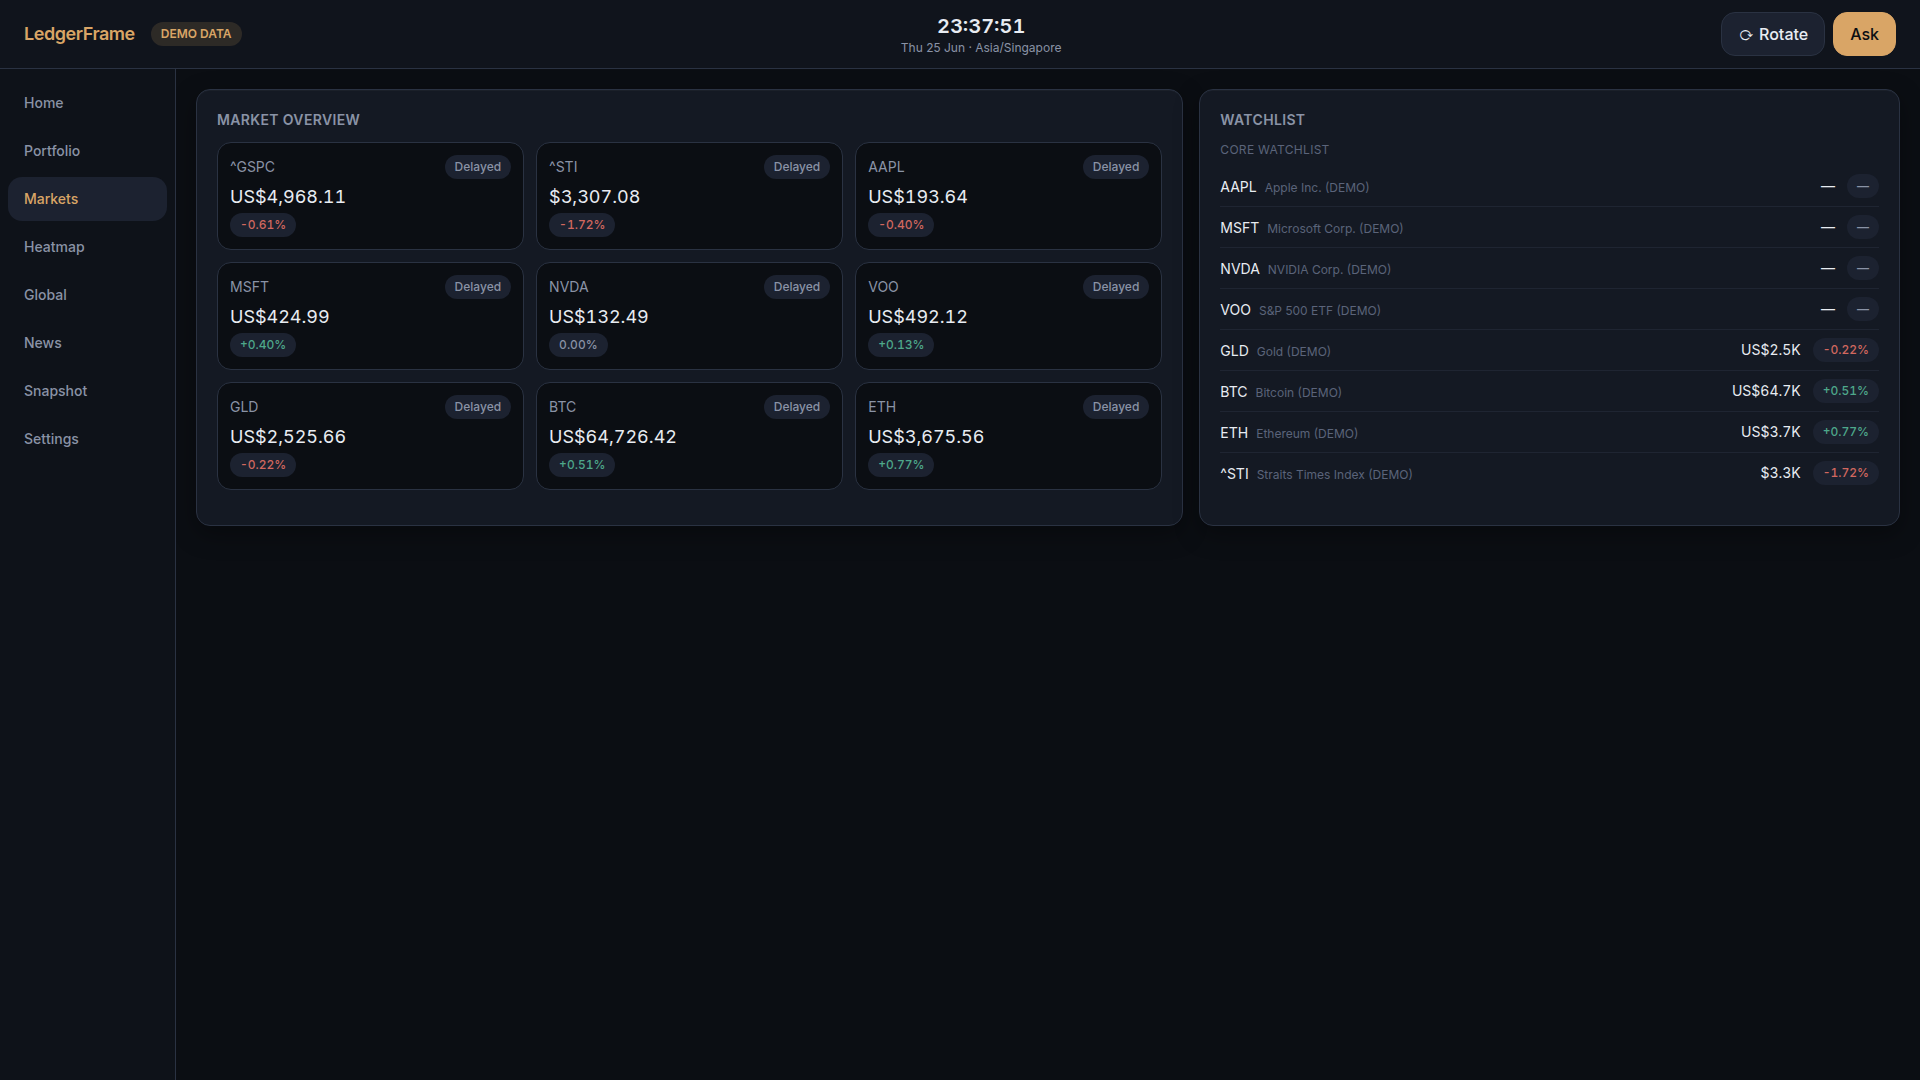
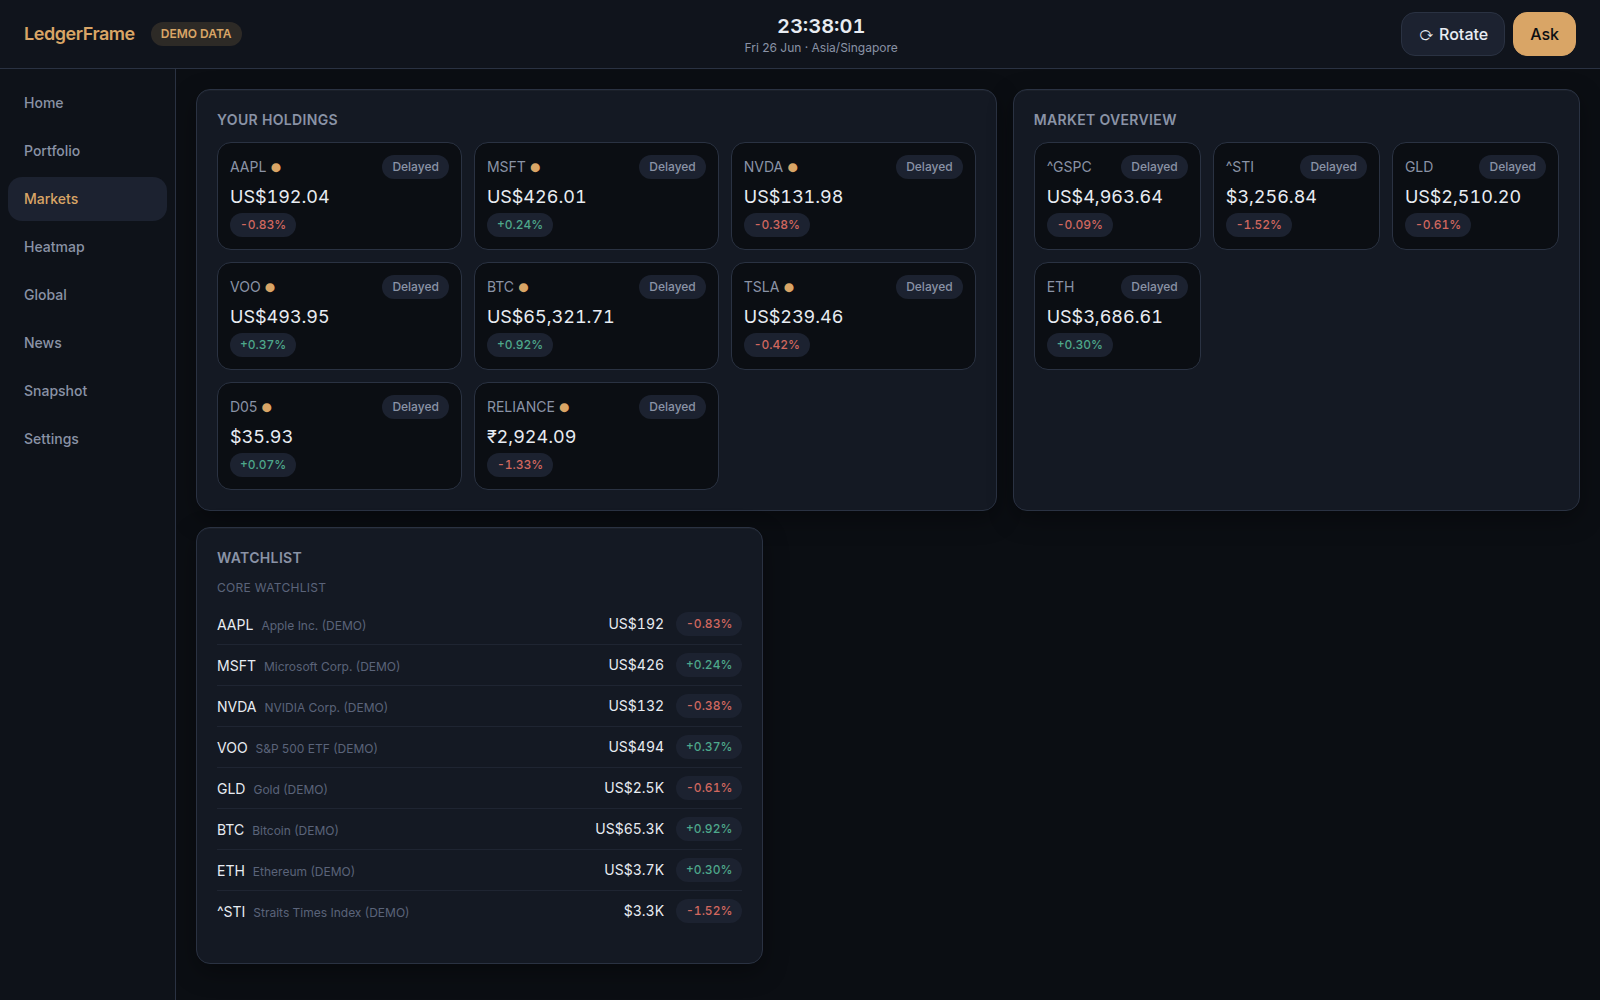
fix: holdings on all market views, home stock links, reliable news feeds
(iii) Markets/Heatmap/Global only ever showed fixed symbol lists, so newly-added
   stocks (e.g. TSLA) never appeared. markets/overview now merges defaults +
   watchlist + HELD instruments (with asset_class + a 'held' flag); Markets shows a
   'Your holdings' section, Heatmap covers all instruments, Global groups by real
   asset class. Instrument detail uses stored metadata.
(ii) Home market list and top-movers are now links to the stock page.
(i) News: default RSS feeds were bot-blocked (WSJ/Investing 403). Switched to
   reliable bot-friendly defaults (BBC Business, CNBC, NYT Business); /news caps the
   RSS fetch (12s) so a slow feed never stalls the page; provider news still shows.

diff --git a/frontend/src/pages/GlobalAssets.tsx b/frontend/src/pages/GlobalAssets.tsx
@@ -1,45 +1,53 @@
+import { Link } from "react-router-dom";
 import { api } from "../lib/api";
 import { useApi } from "../hooks/useApi";
 import { Card, ChangePill } from "../components/ui";
 import { money } from "../lib/format";
-import type { Quote } from "../lib/types";
 
-// Cross-asset overview grouped by asset class. Correlations are intentionally
-// omitted: with demo/limited history they would be misleading, and correlation
-// is not causation. Documented as a v1 limitation.
-const GROUPS: { label: string; match: (q: Quote) => boolean }[] = [
-  { label: "Equities & Indices", match: (q) => ["AAPL", "MSFT", "NVDA", "^GSPC", "^STI", "VOO"].includes(q.symbol) },
-  { label: "Commodities", match: (q) => ["GLD"].includes(q.symbol) },
-  { label: "Crypto", match: (q) => ["BTC", "ETH"].includes(q.symbol) },
-];
+// Cross-asset overview grouped by the instrument's own asset class, so every
+// held / watchlisted / default instrument appears under the right bucket.
+// Correlations are intentionally omitted (limited history; correlation ≠ causation).
+const GROUP_LABELS: Record<string, string> = {
+  equity: "Equities", etf: "ETFs & Indices", mutual_fund: "Funds", bond: "Bonds",
+  commodity: "Commodities", crypto: "Crypto", cash: "Cash", fixed_deposit: "Deposits",
+  property: "Property", private: "Private", retirement: "Retirement", liability: "Liabilities",
+  other: "Other",
+};
 
 export default function GlobalAssets() {
   const { data } = useApi(api.marketsOverview, 60000);
-  const quotes = data?.quotes ?? [];
+  const instruments = data?.instruments ?? [];
+
+  const groups = new Map<string, typeof instruments>();
+  for (const it of instruments) {
+    const key = it.asset_class || "other";
+    if (!groups.has(key)) groups.set(key, []);
+    groups.get(key)!.push(it);
+  }
+  const orderedKeys = [...groups.keys()].sort((a, b) => (groups.get(b)!.length - groups.get(a)!.length));
 
   return (
     <div className="grid grid-cols-12 gap-4 auto-rows-min">
-      {GROUPS.map((g) => {
-        const rows = quotes.filter(g.match);
-        return (
-          <Card key={g.label} title={g.label} className="col-span-12 lg:col-span-4">
-            <ul className="space-y-2">
-              {rows.map((q) => (
-                <li key={q.symbol} className="flex items-center justify-between">
-                  <span className="text-sm text-muted">{q.symbol}</span>
-                  <span className="tnum">{q.price === null ? "—" : money(q.price, q.currency, true)}</span>
-                  <ChangePill value={q.change_pct} />
-                </li>
-              ))}
-              {rows.length === 0 && <li className="text-muted text-sm">No data.</li>}
-            </ul>
-          </Card>
-        );
-      })}
+      {orderedKeys.map((key) => (
+        <Card key={key} title={GROUP_LABELS[key] ?? key} className="col-span-12 lg:col-span-4">
+          <ul className="space-y-2">
+            {groups.get(key)!.map((it) => (
+              <li key={it.symbol} className="flex items-center justify-between">
+                <Link to={`/instrument/${it.symbol}`} className="text-sm text-muted hover:text-accent">
+                  {it.symbol}{it.held && <span className="text-accent text-xs ml-1">●</span>}
+                </Link>
+                <span className="tnum">{it.quote.price === null ? "—" : money(it.quote.price, it.quote.currency, true)}</span>
+                <ChangePill value={it.quote.change_pct} />
+              </li>
+            ))}
+          </ul>
+        </Card>
+      ))}
       <Card title="Coverage note" className="col-span-12">
         <p className="text-sm text-muted">
-          Cross-asset correlations are shown only when sufficient historical data exists. They are
-          omitted here for the demo dataset. {data?.demo_mode && <span className="text-accent">DEMO data.</span>}
+          Grouped by asset class across your holdings, watchlist, and default instruments.
+          Cross-asset correlations are shown only when sufficient history exists (omitted here).
+          {data?.demo_mode && <span className="text-accent"> DEMO data.</span>}
         </p>
       </Card>
     </div>

diff --git a/frontend/src/pages/Markets.tsx b/frontend/src/pages/Markets.tsx
@@ -8,21 +8,20 @@ export default function Markets() {
   const { data, stale } = useApi(api.marketsOverview, 60000);
   const wl = useApi(api.watchlists, 60000);
 
+  const instruments = data?.instruments ?? [];
+  const held = instruments.filter((i) => i.held);
+  const others = instruments.filter((i) => !i.held);
+
   return (
     <div className="grid grid-cols-12 gap-4 auto-rows-min">
-      <Card title="Market overview" className="col-span-12 lg:col-span-7">
-        <div className="grid grid-cols-2 md:grid-cols-3 gap-3">
-          {data?.quotes.map((q) => (
-            <Link key={q.symbol} to={`/instrument/${q.symbol}`} className="bg-base rounded-card p-3 border border-line hover:border-accent transition-colors">
-              <div className="flex items-center justify-between">
-                <span className="text-muted text-sm">{q.symbol}</span>
-                <DataBadge entitlement={q.entitlement} stale={q.is_stale} source={q.source} asOf={q.received_at} />
-              </div>
-              <div className="tnum text-lg mt-1">{q.price === null ? "—" : money(q.price, q.currency)}</div>
-              <ChangePill value={q.change_pct} />
-            </Link>
-          ))}
-        </div>
+      {held.length > 0 && (
+        <Card title="Your holdings" className="col-span-12 lg:col-span-7">
+          <Grid items={held} />
+        </Card>
+      )}
+
+      <Card title="Market overview" className={`col-span-12 ${held.length > 0 ? "lg:col-span-5" : "lg:col-span-7"}`}>
+        <Grid items={others} />
         {stale && <div className="mt-3"><DataBadge stale /></div>}
       </Card>
 
@@ -47,6 +46,28 @@ export default function Markets() {
           </div>
         ))}
       </Card>
+    </div>
+  );
+}
+
+function Grid({ items }: { items: { symbol: string; name: string; held: boolean; quote: import("../lib/types").Quote }[] }) {
+  return (
+    <div className="grid grid-cols-2 md:grid-cols-3 gap-3">
+      {items.map((it) => (
+        <Link
+          key={it.symbol}
+          to={`/instrument/${it.symbol}`}
+          className="bg-base rounded-card p-3 border border-line hover:border-accent transition-colors"
+        >
+          <div className="flex items-center justify-between">
+            <span className="text-muted text-sm">{it.symbol}{it.held && <span className="text-accent text-xs ml-1">●</span>}</span>
+            <DataBadge entitlement={it.quote.entitlement} stale={it.quote.is_stale} source={it.quote.source} asOf={it.quote.received_at} />
+          </div>
+          <div className="tnum text-lg mt-1">{it.quote.price === null ? "—" : money(it.quote.price, it.quote.currency)}</div>
+          <ChangePill value={it.quote.change_pct} />
+        </Link>
+      ))}
+      {items.length === 0 && <p className="text-muted text-sm col-span-full">Nothing to show.</p>}
     </div>
   );
 }

diff --git a/frontend/src/pages/Heatmap.tsx b/frontend/src/pages/Heatmap.tsx
@@ -5,22 +5,20 @@ import { Heatmap } from "../components/Chart";
 
 export default function HeatmapPage() {
   const { data } = useApi(api.marketsOverview, 60000);
-  const wl = useApi(api.watchlists, 60000);
 
-  // Build heatmap from watchlist quotes: size by |price| (proxy), colour by % change.
-  const items =
-    wl.data?.watchlists.flatMap((l) =>
-      l.items
-        .filter((i) => i.quote.price !== null)
-        .map((i) => ({
-          name: i.symbol,
-          value: Math.max(1, Math.abs(i.quote.price ?? 1)),
-          changePct: i.quote.change_pct ?? 0,
-        })),
-    ) ?? [];
+  // Build from all market instruments (defaults + holdings + watchlist):
+  // size by |price| (proxy), colour by daily % change.
+  const instruments = data?.instruments ?? [];
+  const items = instruments
+    .filter((i) => i.quote.price !== null)
+    .map((i) => ({
+      name: i.symbol,
+      value: Math.max(1, Math.abs(i.quote.price ?? 1)),
+      changePct: i.quote.change_pct ?? 0,
+    }));
 
   const coverage = items.length;
-  const total = wl.data?.watchlists.reduce((n, l) => n + l.items.length, 0) ?? 0;
+  const total = instruments.length;
 
   return (
     <Card

diff --git a/frontend/src/pages/Home.tsx b/frontend/src/pages/Home.tsx
@@ -1,3 +1,4 @@
+import { Link } from "react-router-dom";
 import { api } from "../lib/api";
 import { useApi } from "../hooks/useApi";
 import { Card, ChangePill, DataBadge, Figure, Skeleton } from "../components/ui";
@@ -38,7 +39,7 @@ export default function Home() {
         <ul className="space-y-2">
           {data.markets.slice(0, 4).map((q) => (
             <li key={q.symbol} className="flex items-center justify-between">
-              <span className="text-muted text-sm">{q.symbol}</span>
+              <Link to={`/instrument/${q.symbol}`} className="text-muted text-sm hover:text-accent">{q.symbol}</Link>
               <span className="tnum">{q.price === null ? "—" : money(q.price, q.currency, true)}</span>
               <ChangePill value={q.change_pct} />
             </li>
@@ -74,7 +75,7 @@ export default function Home() {
   );
 }
 
-function Movers({ title, rows, ccy }: { title: string; rows: { label: string; day_change: number; is_stale: boolean }[]; ccy: string }) {
+function Movers({ title, rows, ccy }: { title: string; rows: { label: string; symbol: string | null; day_change: number; is_stale: boolean }[]; ccy: string }) {
   return (
     <div>
       <div className="text-xs uppercase tracking-wide text-faint mb-2">{title}</div>
@@ -82,7 +83,11 @@ function Movers({ title, rows, ccy }: { title: string; rows: { label: string; da
       <ul className="space-y-1">
         {rows.map((r) => (
           <li key={r.label} className="flex justify-between text-sm">
-            <span className="truncate mr-2">{r.label}{r.is_stale ? " ⚠" : ""}</span>
+            {r.symbol ? (
+              <Link to={`/instrument/${r.symbol}`} className="truncate mr-2 hover:text-accent">{r.label}{r.is_stale ? " ⚠" : ""}</Link>
+            ) : (
+              <span className="truncate mr-2">{r.label}{r.is_stale ? " ⚠" : ""}</span>
+            )}
             <span className={`tnum ${toneClass(r.day_change)}`}>{signedMoney(r.day_change, ccy)}</span>
           </li>
         ))}

diff --git a/frontend/src/lib/api.ts b/frontend/src/lib/api.ts
@@ -34,7 +34,12 @@ export const api = {
   portfolioSummary: () => req<PortfolioSummary>("/api/v1/portfolio/summary"),
   holdings: () => req<{ base_currency: string; holdings: import("./types").HoldingRow[] }>("/api/v1/portfolio/holdings"),
   marketsOverview: () =>
-    req<{ quotes: Quote[]; market_status: { state: string }; demo_mode: boolean }>("/api/v1/markets/overview"),
+    req<{
+      quotes: Quote[];
+      instruments: { symbol: string; name: string; asset_class: string; currency: string; held: boolean; quote: Quote }[];
+      market_status: { state: string };
+      demo_mode: boolean;
+    }>("/api/v1/markets/overview"),
   history: (symbol: string, days = 180) =>
     req<{ symbol: string; candles: { ts: string; open: number; high: number; low: number; close: number; volume: number | null }[] }>(
       `/api/v1/instruments/${encodeURIComponent(symbol)}/history?days=${days}`,

diff --git a/app/api/v1/routes/markets.py b/app/api/v1/routes/markets.py
@@ -5,28 +5,73 @@ from __future__ import annotations
 from datetime import UTC, datetime, timedelta
 
 from fastapi import APIRouter, Depends, Query
+from sqlalchemy import select
 from sqlalchemy.ext.asyncio import AsyncSession
 
 from app.api.deps import get_db
 from app.core.config import get_settings
+from app.models import Holding, Instrument, WatchlistItem
 from app.providers.market import get_provider
 from app.services.market import refresh_quote
 
 router = APIRouter()
 
-# Symbols shown on the Markets overview when no custom config exists.
+# Baseline symbols always shown (indices + popular instruments). The user's held
+# and watchlisted instruments are merged in on top of these.
 _DEFAULT_OVERVIEW = ["^GSPC", "^STI", "AAPL", "MSFT", "NVDA", "VOO", "GLD", "BTC", "ETH"]
+
+
+async def _overview_instruments(session: AsyncSession) -> list[Instrument]:
+    """All instruments to show on market views: defaults + watchlist + holdings."""
+    held_ids = (
+        await session.execute(select(Holding.instrument_id).where(Holding.instrument_id.isnot(None)))
+    ).scalars().all()
+    wl_ids = (await session.execute(select(WatchlistItem.instrument_id))).scalars().all()
+    by_id = {
+        i.id: i
+        for i in (await session.execute(select(Instrument).where(Instrument.id.in_({*held_ids, *wl_ids})))).scalars()
+    }
+    ordered: list[Instrument] = []
+    seen: set[str] = set()
+    # Defaults first (create rows if missing), then held/watchlist extras.
+    for sym in _DEFAULT_OVERVIEW:
+        instr = (await session.execute(select(Instrument).where(Instrument.symbol == sym))).scalars().first()
+        if instr is None:
+            instr = Instrument(symbol=sym, name=sym)
+            session.add(instr)
+            await session.flush()
+        if instr.symbol not in seen:
+            ordered.append(instr)
+            seen.add(instr.symbol)
+    for instr in by_id.values():
+        if instr.symbol not in seen:
+            ordered.append(instr)
+            seen.add(instr.symbol)
+    return ordered
 
 
 @router.get("/markets/overview")
 async def markets_overview(session: AsyncSession = Depends(get_db)) -> dict:
-    quotes = []
-    for sym in _DEFAULT_OVERVIEW:
-        q = await refresh_quote(session, sym)
-        quotes.append(q.model_dump(mode="json"))
+    held_ids = set(
+        (await session.execute(select(Holding.instrument_id).where(Holding.instrument_id.isnot(None)))).scalars().all()
+    )
+    instruments = await _overview_instruments(session)
+    items = []
+    for instr in instruments:
+        q = await refresh_quote(session, instr.symbol, instr.exchange)
+        items.append({
+            "symbol": instr.symbol,
+            "name": instr.name,
+            "asset_class": instr.asset_class.value if hasattr(instr.asset_class, "value") else str(instr.asset_class),
+            "currency": instr.currency,
+            "held": instr.id in held_ids,
+            "quote": q.model_dump(mode="json"),
+        })
     status = await get_provider().get_market_status("US")
     return {
-        "quotes": quotes,
+        # `quotes` kept for backward-compat (flat quote list); `instruments` is richer.
+        "quotes": [it["quote"] for it in items],
+        "instruments": items,
         "market_status": status.model_dump(mode="json"),
         "demo_mode": get_settings().is_demo,
     }
@@ -41,12 +86,23 @@ async def markets_search(q: str = Query(min_length=1, max_length=40)) -> dict:
 @router.get("/instruments/{symbol}")
 async def instrument_detail(symbol: str, session: AsyncSession = Depends(get_db)) -> dict:
     q = await refresh_quote(session, symbol)
-    results = await get_provider().search_instruments(symbol)
-    meta = next((r for r in results if r.symbol == symbol.upper()), None)
-    return {
-        "quote": q.model_dump(mode="json"),
-        "instrument": meta.model_dump(mode="json") if meta else {"symbol": symbol.upper()},
-    }
+    # Prefer stored instrument metadata (covers held/watchlisted symbols); fall back
+    # to a provider search for anything else.
+    instr = (
+        await session.execute(select(Instrument).where(Instrument.symbol == symbol.upper()))
+    ).scalars().first()
+    if instr is not None:
+        meta = {
+            "symbol": instr.symbol, "name": instr.name,
+            "asset_class": instr.asset_class.value if hasattr(instr.asset_class, "value") else str(instr.asset_class),
+            "currency": instr.currency, "exchange": instr.exchange,
+            "sector": instr.sector, "country": instr.country,
+        }
+    else:
+        results = await get_provider().search_instruments(symbol)
+        match = next((r for r in results if r.symbol == symbol.upper()), None)
+        meta = match.model_dump(mode="json") if match else {"symbol": symbol.upper()}
+    return {"quote": q.model_dump(mode="json"), "instrument": meta}
 
 
 @router.get("/instruments/{symbol}/history")

diff --git a/app/api/v1/routes/news.py b/app/api/v1/routes/news.py
@@ -41,8 +41,15 @@ async def news(session: AsyncSession = Depends(get_db)) -> dict:
             if instr:
                 symbols.append(instr.symbol)
 
-    # Free RSS feeds first (no key needed), then any provider news.
-    rss = await fetch_feeds(session, limit=30)
+    # Free RSS feeds first (no key needed), then any provider news. The RSS fetch
+    # is capped so a slow/blocked feed can never stall the News page; on timeout we
+    # simply show provider headlines.
+    import asyncio
+
+    try:
+        rss = await asyncio.wait_for(fetch_feeds(session, limit=30), timeout=12)
+    except (TimeoutError, Exception):  # noqa: BLE001
+        rss = []
     provider_items = await get_provider().get_news(symbols or ["AAPL", "MSFT", "NVDA"])
     items = rss + list(provider_items)
     return {

diff --git a/app/services/feeds.py b/app/services/feeds.py
@@ -29,16 +29,17 @@ log = logging.getLogger(__name__)
 
 FEEDS_SETTING_KEY = "news_feeds"
 
-# Conservative defaults: broadly-available free finance/markets RSS feeds.
-# Users can replace these entirely in Settings.
+# Defaults chosen for reliability: these publishers serve standard RSS without
+# blocking non-browser clients (the previous WSJ/Investing.com defaults often
+# return 403/HTML to bots, which is why headlines didn't load). Replace freely.
 DEFAULT_FEEDS = [
-    "https://www.investing.com/rss/news_25.rss",
-    "https://feeds.a.dj.com/rss/RSSMarketsMain.xml",
+    "https://feeds.bbci.co.uk/news/business/rss.xml",
     "https://www.cnbc.com/id/100003114/device/rss/rss.html",
+    "https://rss.nytimes.com/services/xml/rss/nyt/Business.xml",
 ]
 
 MAX_ITEMS_PER_FEED = 10
-FETCH_TIMEOUT = 8.0
+FETCH_TIMEOUT = 6.0
 
 
 async def get_feed_urls(session: AsyncSession) -> list[str]: